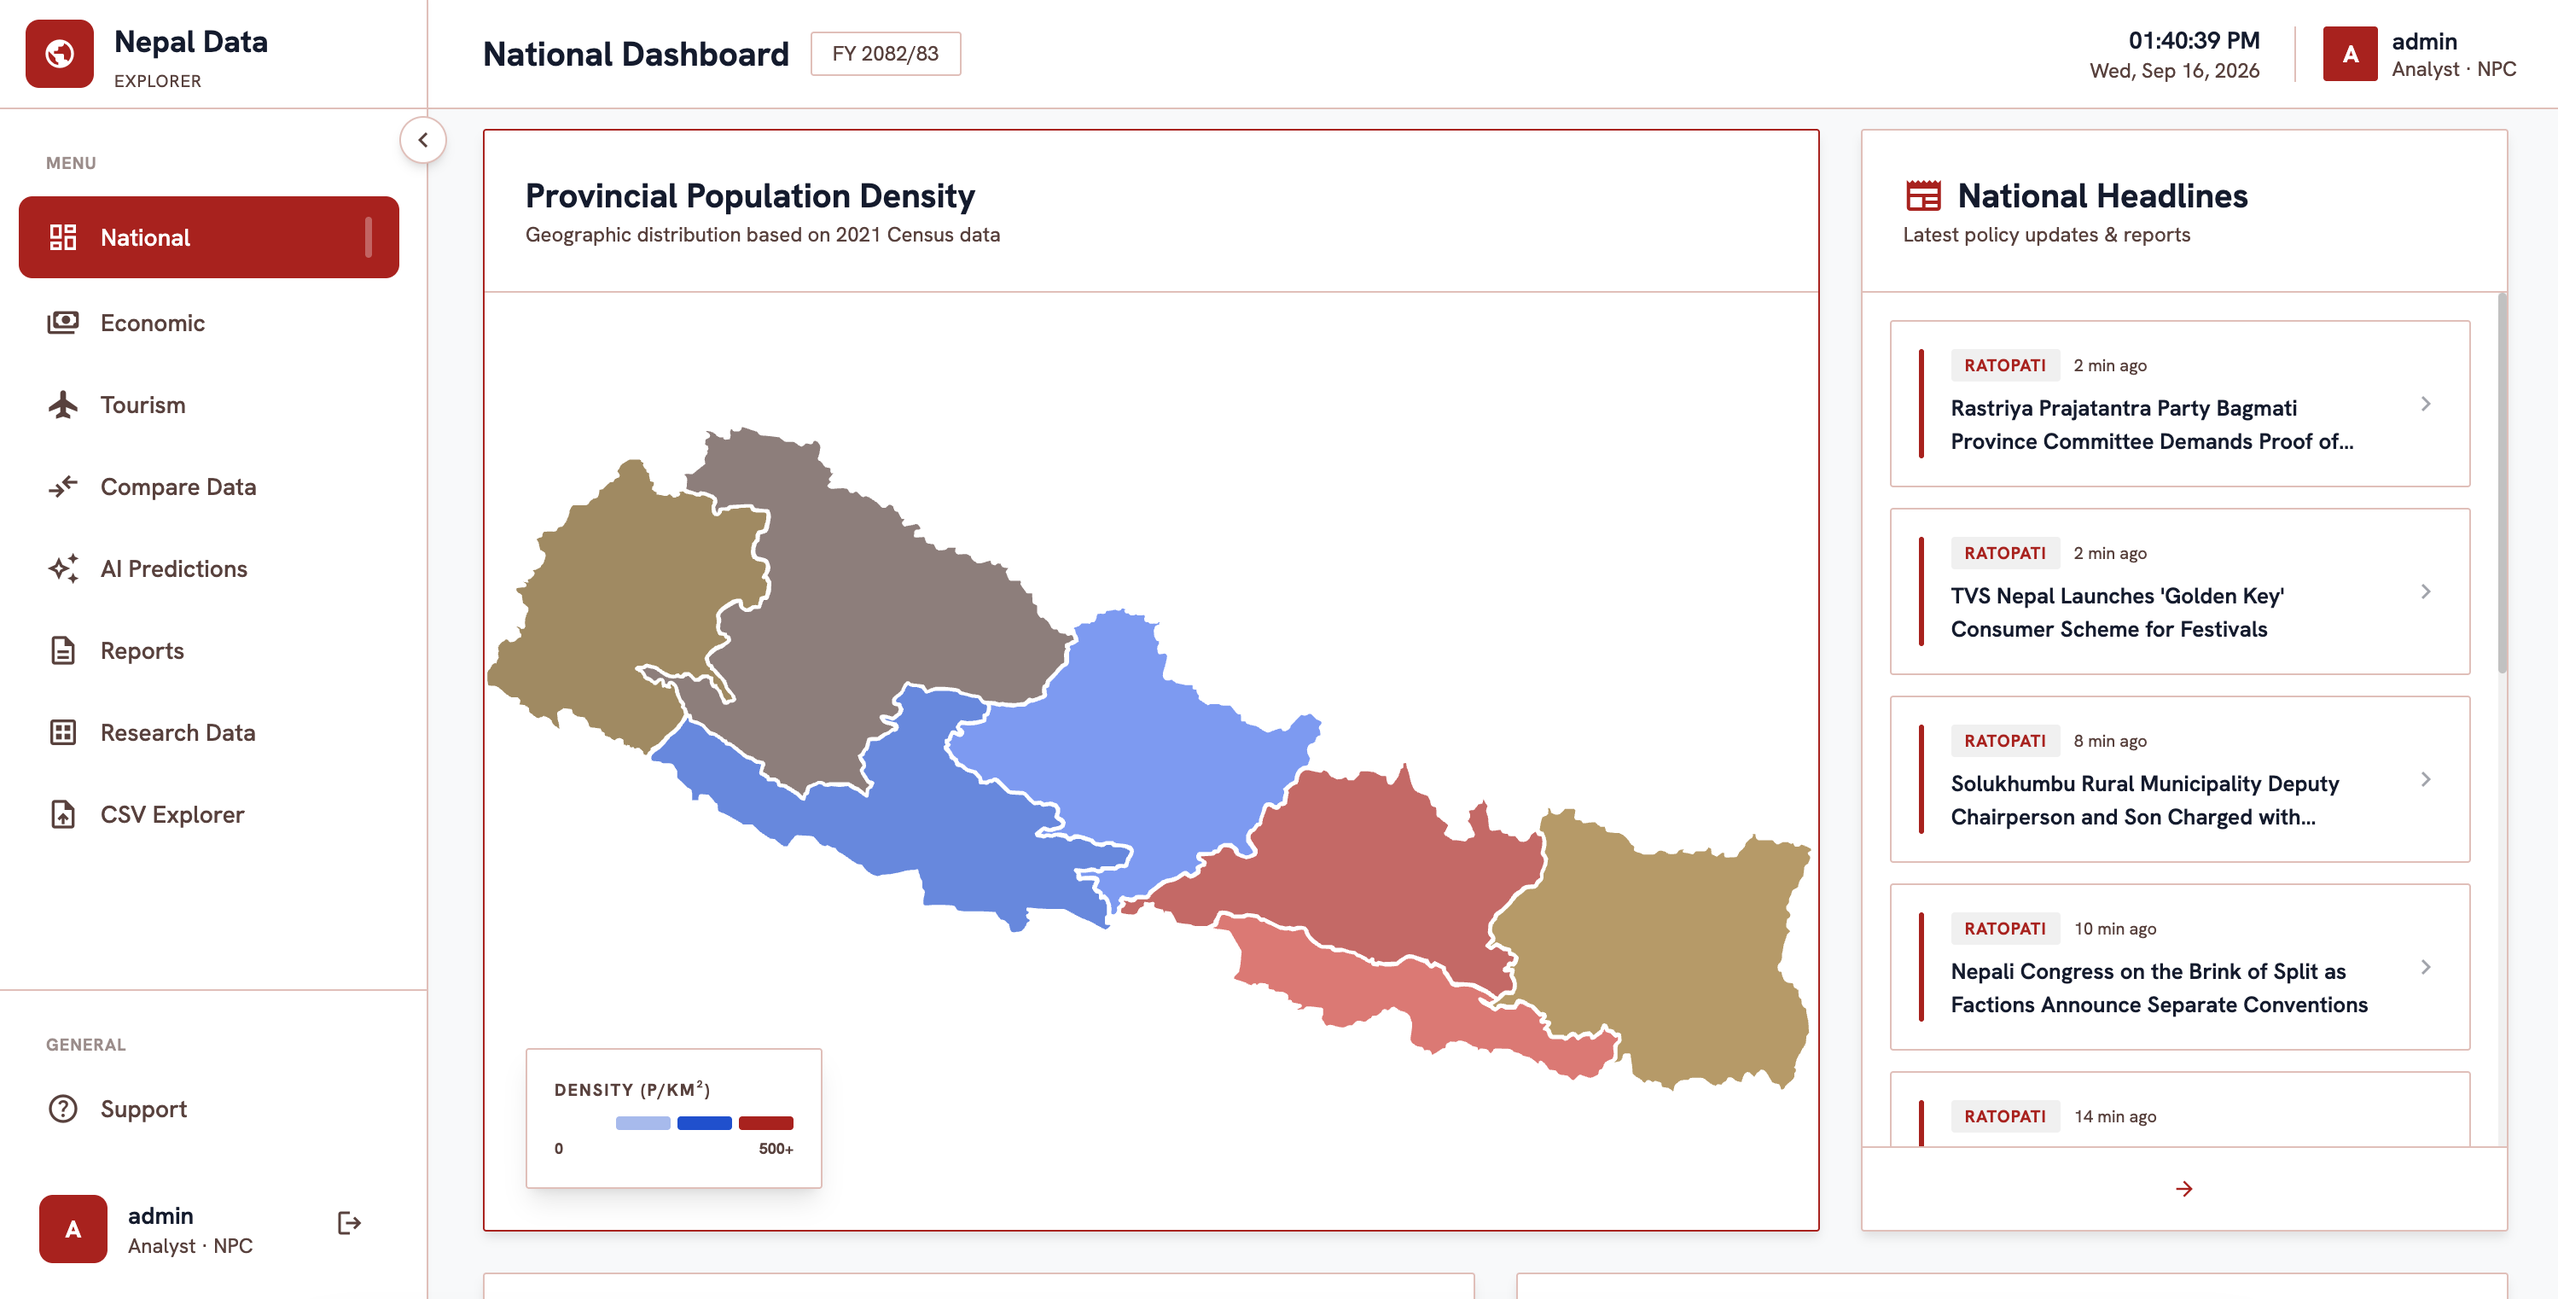
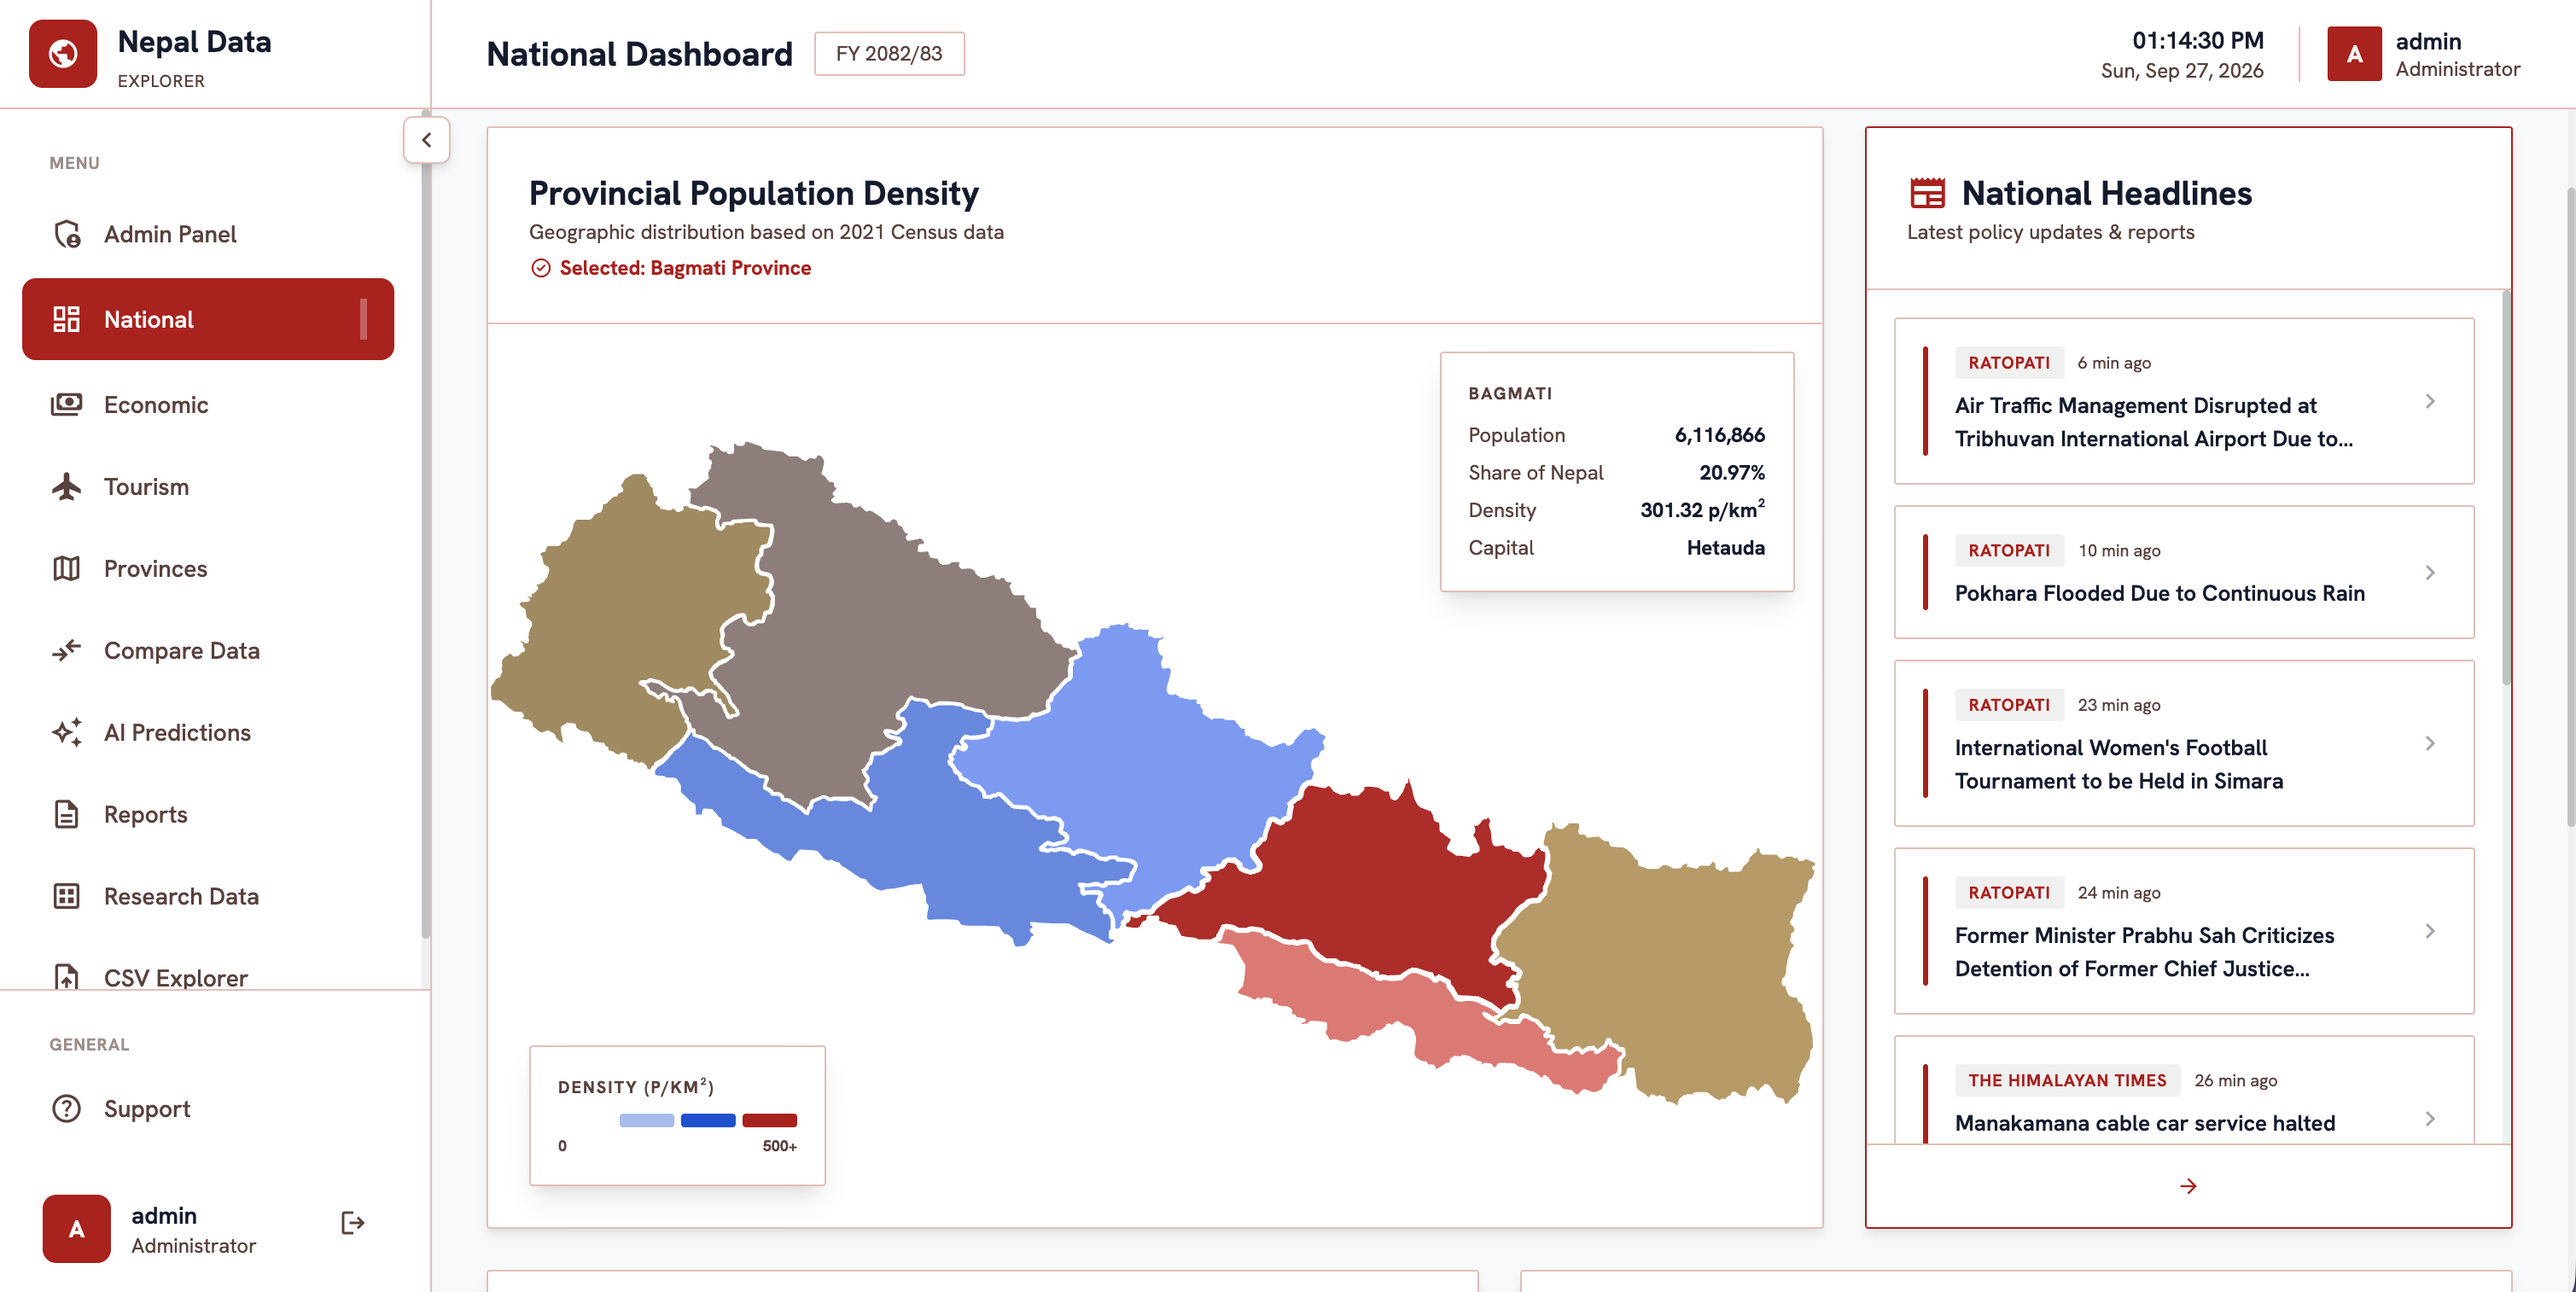
docs: README.md

diff --git a/README.md b/README.md
@@ -11,7 +11,7 @@ A national data platform for Nepal's economy, tourism, and demographics, built w
 - AI-powered forecasting with ARIMA/SARIMA models and confidence intervals
 - Province comparison, dataset exploration, and PDF/CSV report exports
 - Authentication via Google and GitHub OAuth, JWT sessions, and email verification
-- Custom toxicity moderation for support messages, backed by a fine-tuned DistilBERT classifier (trained for Nepali and English) with an additional bilingual profanity filter
+- Custom toxicity moderation for support messages, backed by a DistilBERT classifier (trained for Nepali and English) with an additional bilingual profanity filter
 
 ## Technology Stack
 
@@ -19,7 +19,7 @@ A national data platform for Nepal's economy, tourism, and demographics, built w
 | --------- | ----------------------------------------------------------- |
 | Backend   | Django, Django REST Framework, SimpleJWT, PostgreSQL        |
 | Frontend  | React 18, Vite, TailwindCSS, Recharts, React Router, Leaflet |
-| ML        | Custom DistilBERT toxicity classifier (fine-tuned in Colab), ARIMA/SARIMA |
+| ML        | Custom DistilBERT toxicity classifier , ARIMA/SARIMA |
 
 ## Prerequisites
 
